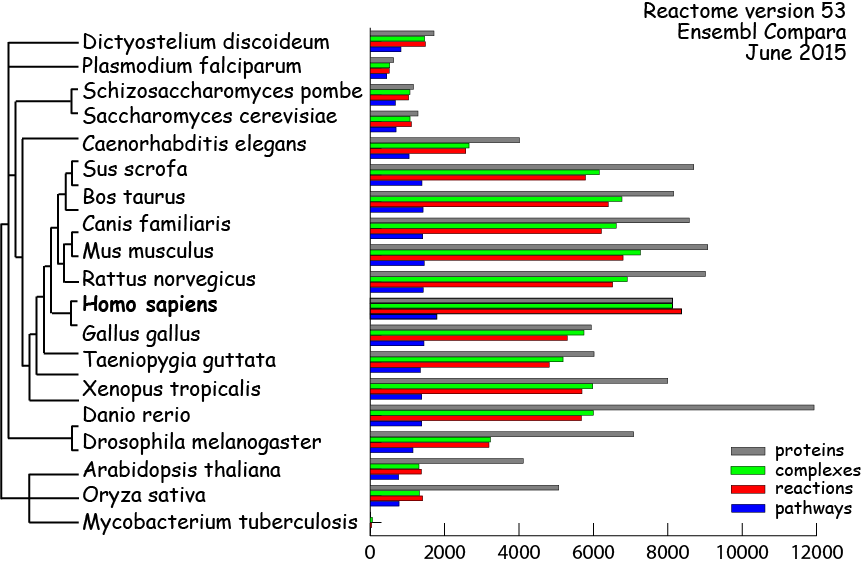
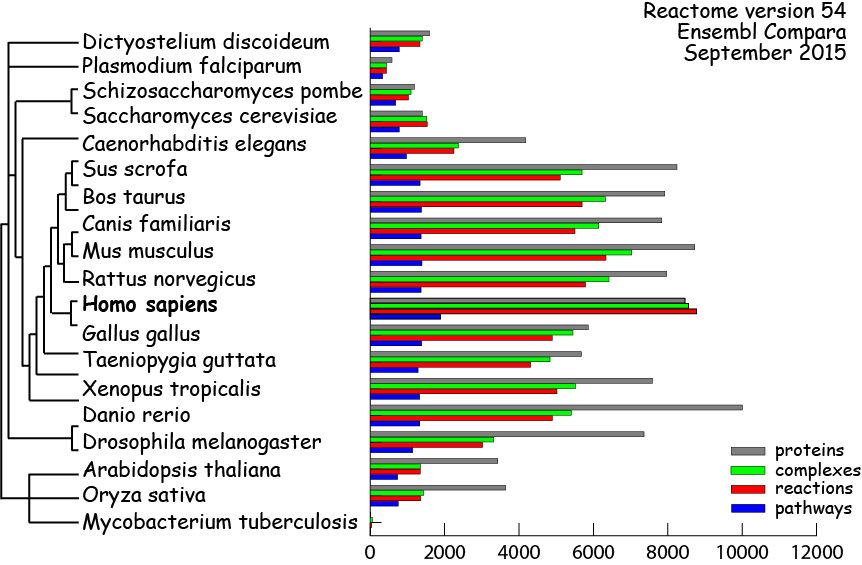
version 54

diff --git a/scripts/release/website_files_update/stats.html b/scripts/release/website_files_update/stats.html
@@ -7,7 +7,7 @@
 
     <body>
 	<!--#include virtual="/cgi-bin/navigation_bar" -->
-	<h1 class="frontpage">Reactome Statistics (Version 53)</h1>
+	<h1 class="frontpage">Reactome Statistics (Version 54)</h1>
 	    
 	<!-- Start of the stats table  -->
 	<table border="0" width="90%" cellpadding="0" cellspacing="0" class="classbrowser">
@@ -23,146 +23,146 @@
 		    
 		    <tr height="18" class="own">
 			<td height="25" class="own">D. discoideum</td>
-			<td class="own" align="center">1712</td>
-			<td class="own" align="center">1462</td>
-			<td class="own" align="center">1483</td>
-			<td class="own" align="center">825</td>
+			<td class="own" align="center">1594</td>
+			<td class="own" align="center">1396</td>
+			<td class="own" align="center">1338</td>
+			<td class="own" align="center">779</td>
 		    </tr>
 		    
 		    <tr height="18" class="own">
 			<td height="25" class="own">P. falciparum</td>
-			<td class="own" align="center">628</td>
-			<td class="own" align="center">524</td>
-			<td class="own" align="center">509</td>
-			<td class="own" align="center">446</td>
+			<td class="own" align="center">585</td>
+			<td class="own" align="center">437</td>
+			<td class="own" align="center">436</td>
+			<td class="own" align="center">337</td>
 		    </tr>
 		    
 		    <tr height="18" class="own">
 			<td height="25" class="own">S. pombe</td>
-			<td class="own" align="center">1164</td>
-			<td class="own" align="center">1070</td>
-			<td class="own" align="center">1031</td>
-			<td class="own" align="center">679</td>
+			<td class="own" align="center">1190</td>
+			<td class="own" align="center">1097</td>
+			<td class="own" align="center">1029</td>
+			<td class="own" align="center">685</td>
 		    </tr>
 		    
 		    <tr height="18" class="own">
 			<td height="25" class="own">S. cerevisiae</td>
-			<td class="own" align="center">1285</td>
-			<td class="own" align="center">1073</td>
-			<td class="own" align="center">1108</td>
-			<td class="own" align="center">695</td>
+			<td class="own" align="center">1398</td>
+			<td class="own" align="center">1521</td>
+			<td class="own" align="center">1531</td>
+			<td class="own" align="center">779</td>
 		    </tr>
 		    
 		    <tr height="18" class="own">
 			<td height="25" class="own">C. elegans</td>
-			<td class="own" align="center">4013</td>
-			<td class="own" align="center">2657</td>
-			<td class="own" align="center">2571</td>
-			<td class="own" align="center">1045</td>
+			<td class="own" align="center">4176</td>
+			<td class="own" align="center">2368</td>
+			<td class="own" align="center">2250</td>
+			<td class="own" align="center">973</td>
 		    </tr>
 		    
 		    <tr height="18" class="own">
 			<td height="25" class="own">S. scrofa</td>
-			<td class="own" align="center">8701</td>
-			<td class="own" align="center">6156</td>
-			<td class="own" align="center">5787</td>
-			<td class="own" align="center">1391</td>
+			<td class="own" align="center">8246</td>
+			<td class="own" align="center">5697</td>
+			<td class="own" align="center">5109</td>
+			<td class="own" align="center">1341</td>
 		    </tr>
 		    
 		    <tr height="18" class="own">
 			<td height="25" class="own">B. taurus</td>
-			<td class="own" align="center">8156</td>
-			<td class="own" align="center">6767</td>
-			<td class="own" align="center">6396</td>
-			<td class="own" align="center">1422</td>
+			<td class="own" align="center">7916</td>
+			<td class="own" align="center">6325</td>
+			<td class="own" align="center">5695</td>
+			<td class="own" align="center">1377</td>
 		    </tr>
 		    
 		    <tr height="18" class="own">
 			<td height="25" class="own">C. familiaris</td>
-			<td class="own" align="center">8575</td>
-			<td class="own" align="center">6614</td>
-			<td class="own" align="center">6213</td>
-			<td class="own" align="center">1413</td>
+			<td class="own" align="center">7835</td>
+			<td class="own" align="center">6145</td>
+			<td class="own" align="center">5504</td>
+			<td class="own" align="center">1369</td>
 		    </tr>
 		    
 		    <tr height="18" class="own">
 			<td height="25" class="own">M. musculus</td>
-			<td class="own" align="center">9076</td>
-			<td class="own" align="center">7264</td>
-			<td class="own" align="center">6796</td>
-			<td class="own" align="center">1452</td>
+			<td class="own" align="center">8725</td>
+			<td class="own" align="center">7028</td>
+			<td class="own" align="center">6336</td>
+			<td class="own" align="center">1391</td>
 		    </tr>
 		    
 		    <tr height="18" class="own">
 			<td height="25" class="own">R. norvegicus</td>
-			<td class="own" align="center">9013</td>
-			<td class="own" align="center">6910</td>
-			<td class="own" align="center">6516</td>
-			<td class="own" align="center">1424</td>
+			<td class="own" align="center">7970</td>
+			<td class="own" align="center">6418</td>
+			<td class="own" align="center">5786</td>
+			<td class="own" align="center">1368</td>
 		    </tr>
 		    
 		    <tr height="18" class="own">
 			<td height="25" class="own">*H. sapiens</td>
-			<td class="own" align="center">8128</td>
-			<td class="own" align="center">8129</td>
-			<td class="own" align="center">8369</td>
-			<td class="own" align="center">1786</td>
+			<td class="own" align="center">8464</td>
+			<td class="own" align="center">8557</td>
+			<td class="own" align="center">8770</td>
+			<td class="own" align="center">1887</td>
 		    </tr>
 		    
 		    <tr height="18" class="own">
 			<td height="25" class="own">G. gallus</td>
-			<td class="own" align="center">5940</td>
-			<td class="own" align="center">5746</td>
-			<td class="own" align="center">5297</td>
-			<td class="own" align="center">1446</td>
+			<td class="own" align="center">5860</td>
+			<td class="own" align="center">5449</td>
+			<td class="own" align="center">4892</td>
+			<td class="own" align="center">1385</td>
 		    </tr>
 		    
 		    <tr height="18" class="own">
 			<td height="25" class="own">T. guttata</td>
-			<td class="own" align="center">6017</td>
-			<td class="own" align="center">5186</td>
-			<td class="own" align="center">4812</td>
-			<td class="own" align="center">1349</td>
+			<td class="own" align="center">5674</td>
+			<td class="own" align="center">4836</td>
+			<td class="own" align="center">4312</td>
+			<td class="own" align="center">1286</td>
 		    </tr>
 		    
 		    <tr height="18" class="own">
 			<td height="25" class="own">X. tropicalis</td>
-			<td class="own" align="center">7997</td>
-			<td class="own" align="center">5985</td>
-			<td class="own" align="center">5693</td>
-			<td class="own" align="center">1388</td>
+			<td class="own" align="center">7588</td>
+			<td class="own" align="center">5518</td>
+			<td class="own" align="center">5019</td>
+			<td class="own" align="center">1330</td>
 		    </tr>
 		    
 		    <tr height="18" class="own">
 			<td height="25" class="own">D. rerio</td>
-			<td class="own" align="center">11932</td>
-			<td class="own" align="center">5997</td>
-			<td class="own" align="center">5677</td>
-			<td class="own" align="center">1387</td>
+			<td class="own" align="center">10003</td>
+			<td class="own" align="center">5405</td>
+			<td class="own" align="center">4895</td>
+			<td class="own" align="center">1333</td>
 		    </tr>
 		    
 		    <tr height="18" class="own">
 			<td height="25" class="own">D. melanogaster</td>
-			<td class="own" align="center">7079</td>
-			<td class="own" align="center">3231</td>
-			<td class="own" align="center">3193</td>
-			<td class="own" align="center">1150</td>
+			<td class="own" align="center">7362</td>
+			<td class="own" align="center">3320</td>
+			<td class="own" align="center">3019</td>
+			<td class="own" align="center">1141</td>
 		    </tr>
 		    
 		    <tr height="18" class="own">
 			<td height="25" class="own">A. thaliana</td>
-			<td class="own" align="center">4113</td>
-			<td class="own" align="center">1310</td>
-			<td class="own" align="center">1374</td>
-			<td class="own" align="center">766</td>
+			<td class="own" align="center">3432</td>
+			<td class="own" align="center">1352</td>
+			<td class="own" align="center">1343</td>
+			<td class="own" align="center">737</td>
 		    </tr>
 		    
 		    <tr height="18" class="own">
 			<td height="25" class="own">O. sativa</td>
-			<td class="own" align="center">5066</td>
-			<td class="own" align="center">1323</td>
-			<td class="own" align="center">1408</td>
-			<td class="own" align="center">776</td>
+			<td class="own" align="center">3639</td>
+			<td class="own" align="center">1430</td>
+			<td class="own" align="center">1355</td>
+			<td class="own" align="center">751</td>
 		    </tr>
 		    
 		    <tr height="18" class="own">
@@ -182,7 +182,7 @@
 
 	<div style="font-size:9pt;text-align:left;color:black;padding-top:10px;width=40%">
 	    *Reactome annotates to protein isoforms when this information is available.<br />
-	    The total number of curated human proteins including isoforms is 8272
+	    The total number of curated human proteins including isoforms is 8609
 	</div>
 
 	<!--#include virtual="/cgi-bin/footer" -->
